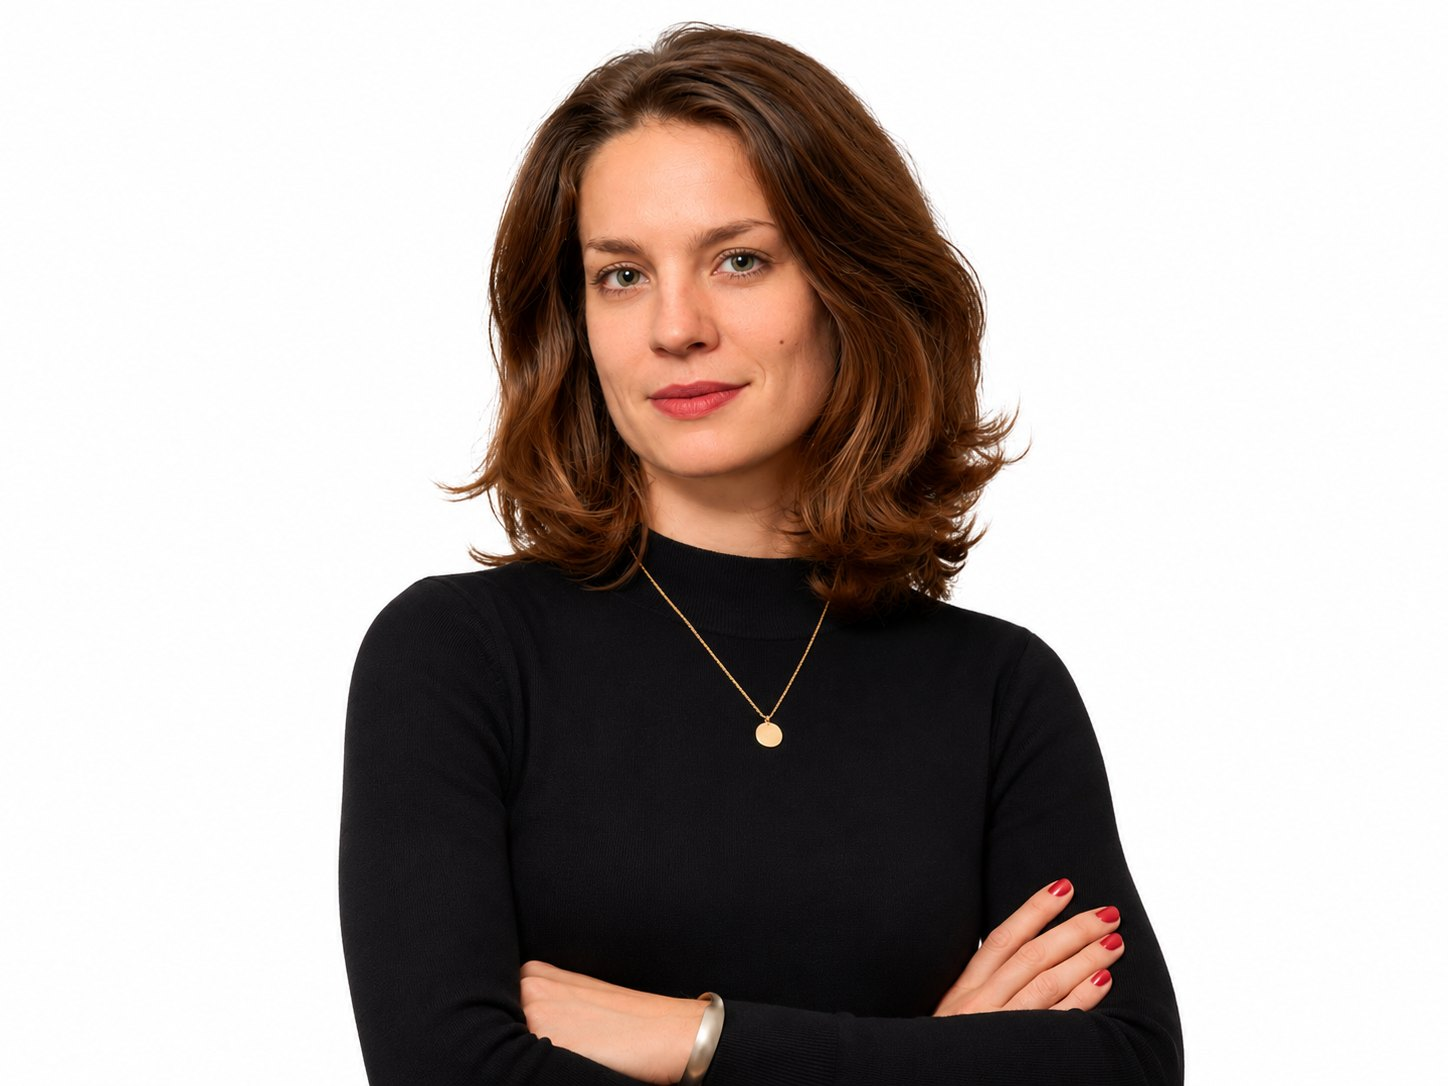
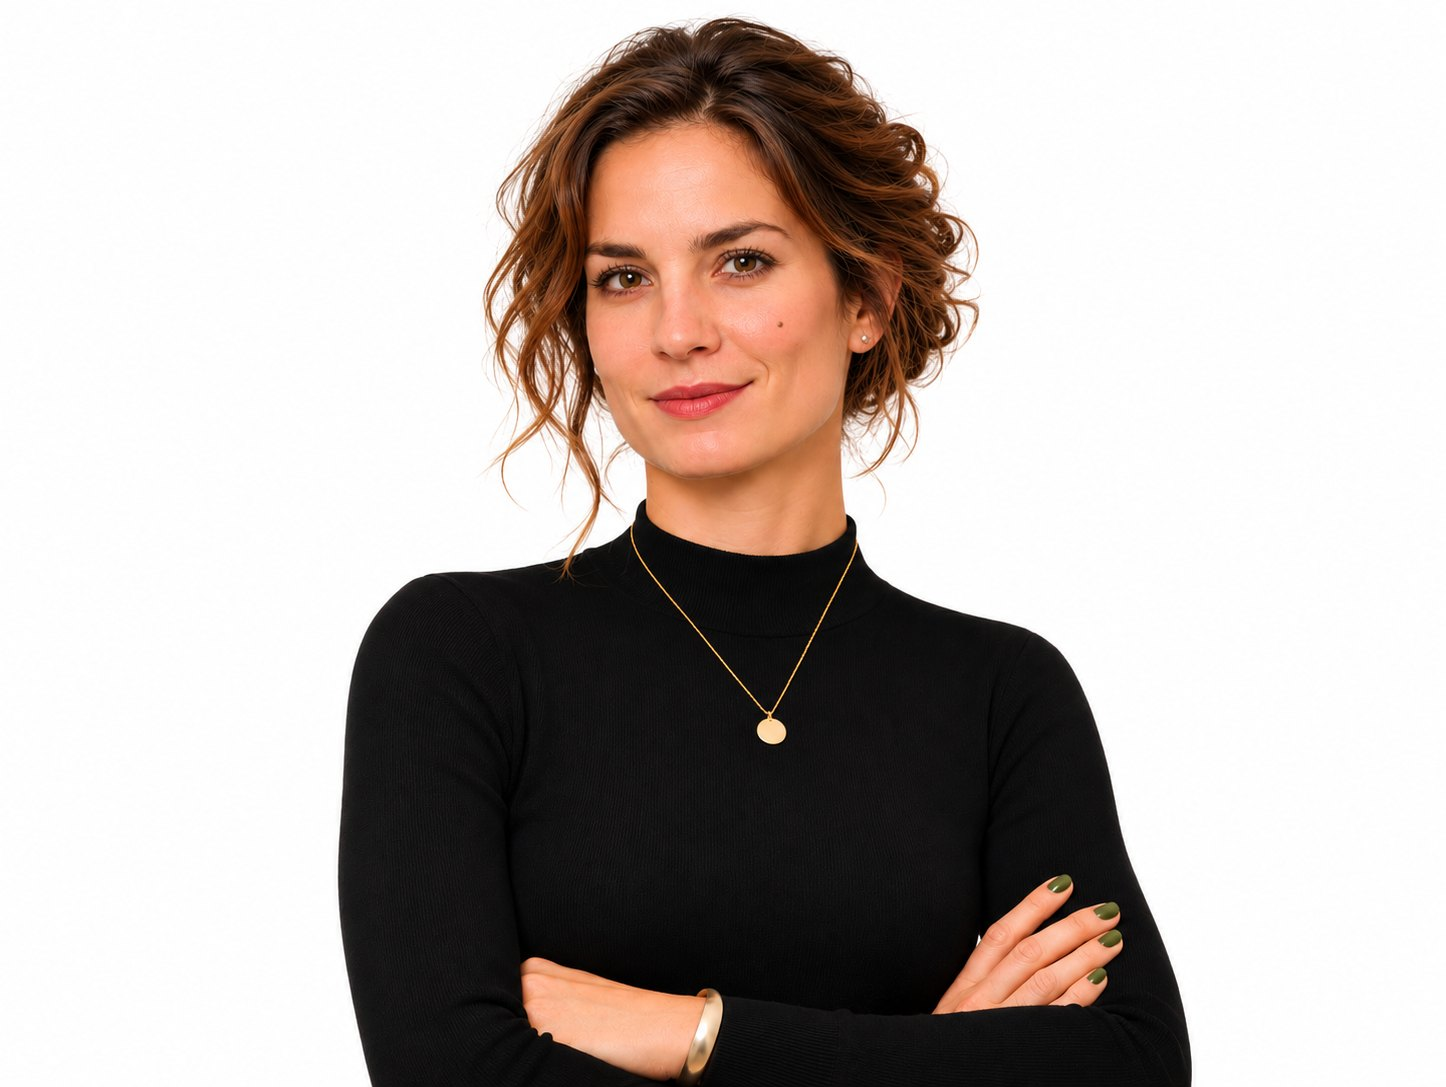
Add files via upload

diff --git a/en/index.html b/en/index.html
@@ -306,8 +306,8 @@ details[open] .plus{transform:rotate(45deg)}
 </div>
 <div style="margin-top: 64px; display: grid; grid-template-columns: repeat(auto-fit, minmax(280px, 1fr)); gap: 32px">
 <article style="display: flex; flex-direction: column; gap: 14px">
-<img src="../img/aja3.jpg" alt="Portrait of Aja" style="width: 100%; aspect-ratio: 4 / 5; object-fit: cover; object-position: center top; display: block; border-radius: 4px; background: #FFFFFF">
-<h3 style="margin: 6px 0 0; font-family: 'Cormorant Garamond', serif; font-size: 34px; font-weight: 600; line-height: 1">Aja</h3>
+<img src="../img/aja3.jpg" alt="Portrait of Ana" style="width: 100%; aspect-ratio: 4 / 5; object-fit: cover; object-position: center top; display: block; border-radius: 4px; background: #FFFFFF">
+<h3 style="margin: 6px 0 0; font-family: 'Cormorant Garamond', serif; font-size: 34px; font-weight: 600; line-height: 1">Ana</h3>
 <p style="margin: 0; color: #4F5B55; font-size: 16px">Managing Director. She leads the company’s growth and is your first contact at the visit.</p>
 </article>
 <article style="display: flex; flex-direction: column; gap: 14px">
@@ -760,8 +760,8 @@ details[open] .plus{transform:rotate(45deg)}
 </div>
 <div style="margin-top: 64px; display: grid; grid-template-columns: repeat(auto-fit, minmax(280px, 1fr)); gap: 32px">
 <article style="display: flex; flex-direction: column; gap: 14px">
-<img src="../img/aja3.jpg" alt="Portrait of Aja" style="width: 100%; aspect-ratio: 4 / 5; object-fit: cover; object-position: center top; display: block; border-radius: 4px; background: #FFFFFF">
-<h3 style="margin: 6px 0 0; font-family: 'Cormorant Garamond', serif; font-size: 34px; font-weight: 600; line-height: 1">Aja</h3>
+<img src="../img/aja3.jpg" alt="Portrait of Ana" style="width: 100%; aspect-ratio: 4 / 5; object-fit: cover; object-position: center top; display: block; border-radius: 4px; background: #FFFFFF">
+<h3 style="margin: 6px 0 0; font-family: 'Cormorant Garamond', serif; font-size: 34px; font-weight: 600; line-height: 1">Ana</h3>
 <p style="margin: 0; color: #4F5B55; font-size: 16px">Managing Director. She leads the company’s growth and is your first contact at the visit.</p>
 </article>
 <article style="display: flex; flex-direction: column; gap: 14px">

diff --git a/index.html b/index.html
@@ -306,8 +306,8 @@ details[open] .plus{transform:rotate(45deg)}
 </div>
 <div style="margin-top: 64px; display: grid; grid-template-columns: repeat(auto-fit, minmax(280px, 1fr)); gap: 32px">
 <article style="display: flex; flex-direction: column; gap: 14px">
-<img src="img/aja3.jpg" alt="Portret Aja" style="width: 100%; aspect-ratio: 4 / 5; object-fit: cover; object-position: center top; display: block; border-radius: 4px; background: #FFFFFF">
-<h3 style="margin: 6px 0 0; font-family: 'Cormorant Garamond', serif; font-size: 34px; font-weight: 600; line-height: 1">Aja</h3>
+<img src="img/aja3.jpg" alt="Portret Ana" style="width: 100%; aspect-ratio: 4 / 5; object-fit: cover; object-position: center top; display: block; border-radius: 4px; background: #FFFFFF">
+<h3 style="margin: 6px 0 0; font-family: 'Cormorant Garamond', serif; font-size: 34px; font-weight: 600; line-height: 1">Ana</h3>
 <p style="margin: 0; color: #4F5B55; font-size: 16px">Direktorica. Vodi razvoj podjetja in je vaša prva sogovornica ob ogledu.</p>
 </article>
 <article style="display: flex; flex-direction: column; gap: 14px">
@@ -760,8 +760,8 @@ details[open] .plus{transform:rotate(45deg)}
 </div>
 <div style="margin-top: 64px; display: grid; grid-template-columns: repeat(auto-fit, minmax(280px, 1fr)); gap: 32px">
 <article style="display: flex; flex-direction: column; gap: 14px">
-<img src="img/aja3.jpg" alt="Portret Aja" style="width: 100%; aspect-ratio: 4 / 5; object-fit: cover; object-position: center top; display: block; border-radius: 4px; background: #FFFFFF">
-<h3 style="margin: 6px 0 0; font-family: 'Cormorant Garamond', serif; font-size: 34px; font-weight: 600; line-height: 1">Aja</h3>
+<img src="img/aja3.jpg" alt="Portret Ana" style="width: 100%; aspect-ratio: 4 / 5; object-fit: cover; object-position: center top; display: block; border-radius: 4px; background: #FFFFFF">
+<h3 style="margin: 6px 0 0; font-family: 'Cormorant Garamond', serif; font-size: 34px; font-weight: 600; line-height: 1">Ana</h3>
 <p style="margin: 0; color: #4F5B55; font-size: 16px">Direktorica. Vodi razvoj podjetja in je vaša prva sogovornica ob ogledu.</p>
 </article>
 <article style="display: flex; flex-direction: column; gap: 14px">
